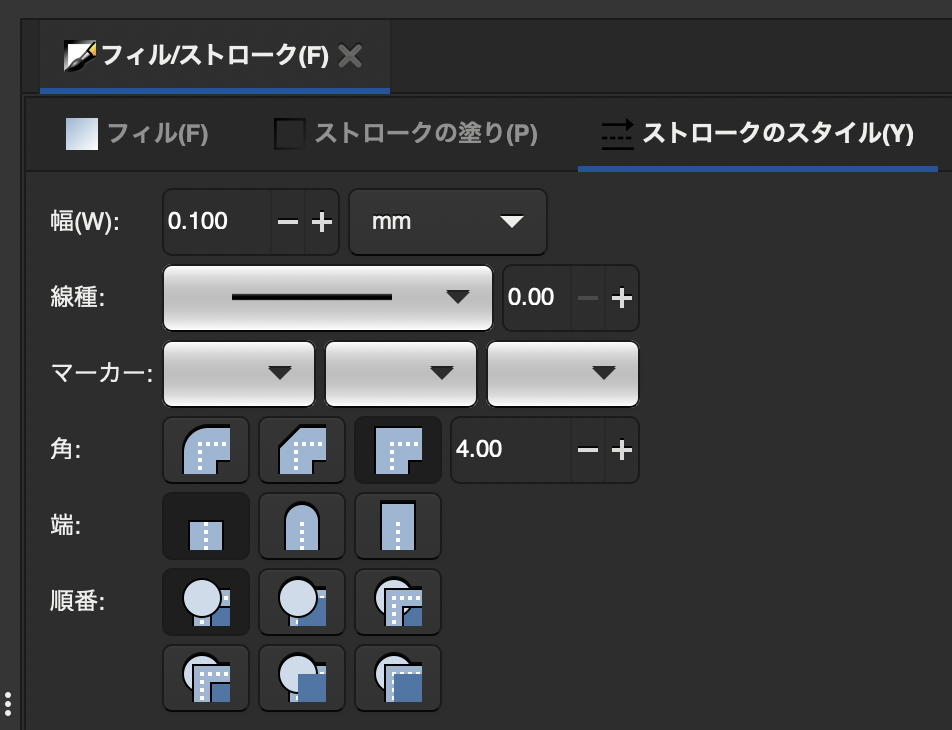
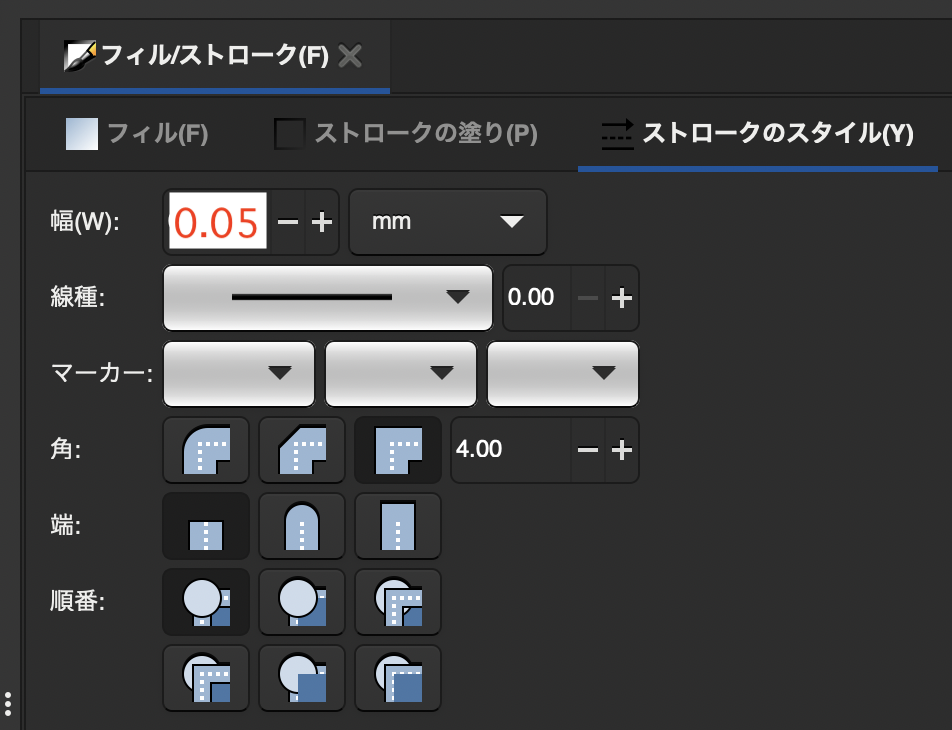
fix incscape-setteings.md stroke point

Changed region(s): [[0.1523, 0.2411, 0.3046, 0.3616]]

diff --git a/inkscape-setteings.md b/inkscape-setteings.md
@@ -45,8 +45,7 @@ Inkscapeでよく使うマウス操作を載せておきます。
 作成した図形を選択すると、画面左下から図形の**塗りと線**の状態がみれます。
 現在の状態は、**フィル(塗り)なし、ストローク黒、太さ0.265**になっています。
 
-印刷するときは塗り無しの線の太さを0.1に設定します。
-線の太さや、塗りを変更する場合は、このフィル、ストロークをクリックします。
+印刷するときは，レーザーで切って欲しい線は0.1pt以下にすると切ってくれる．Inkscapeでは塗り無しの線の太さを0.05くらいに設定します。<font color="red">(他イラストソフトで開いた際に数値が変更されてしまうため，0.05に設定すると他イラストソフトでは0.1となる)</font>線の太さや、塗りを変更する場合は、このフィル、ストロークをクリックします。
 <img src="img/スクリーンショット 2022-05-15 19.43.39.png">
 
 フィルストローク設定が開きますので、
@@ -57,7 +56,7 @@ Inkscapeでよく使うマウス操作を載せておきます。
 ストローク：単一色
 <img src="img/スクリーンショット 2022-05-15 20.32.03.png">
 
-ストロークのスタイル：幅0.1
+ストロークのスタイル：幅0.05
 <img src="img/スクリーンショット 2022-05-15 20.31.21.png">
 
 
